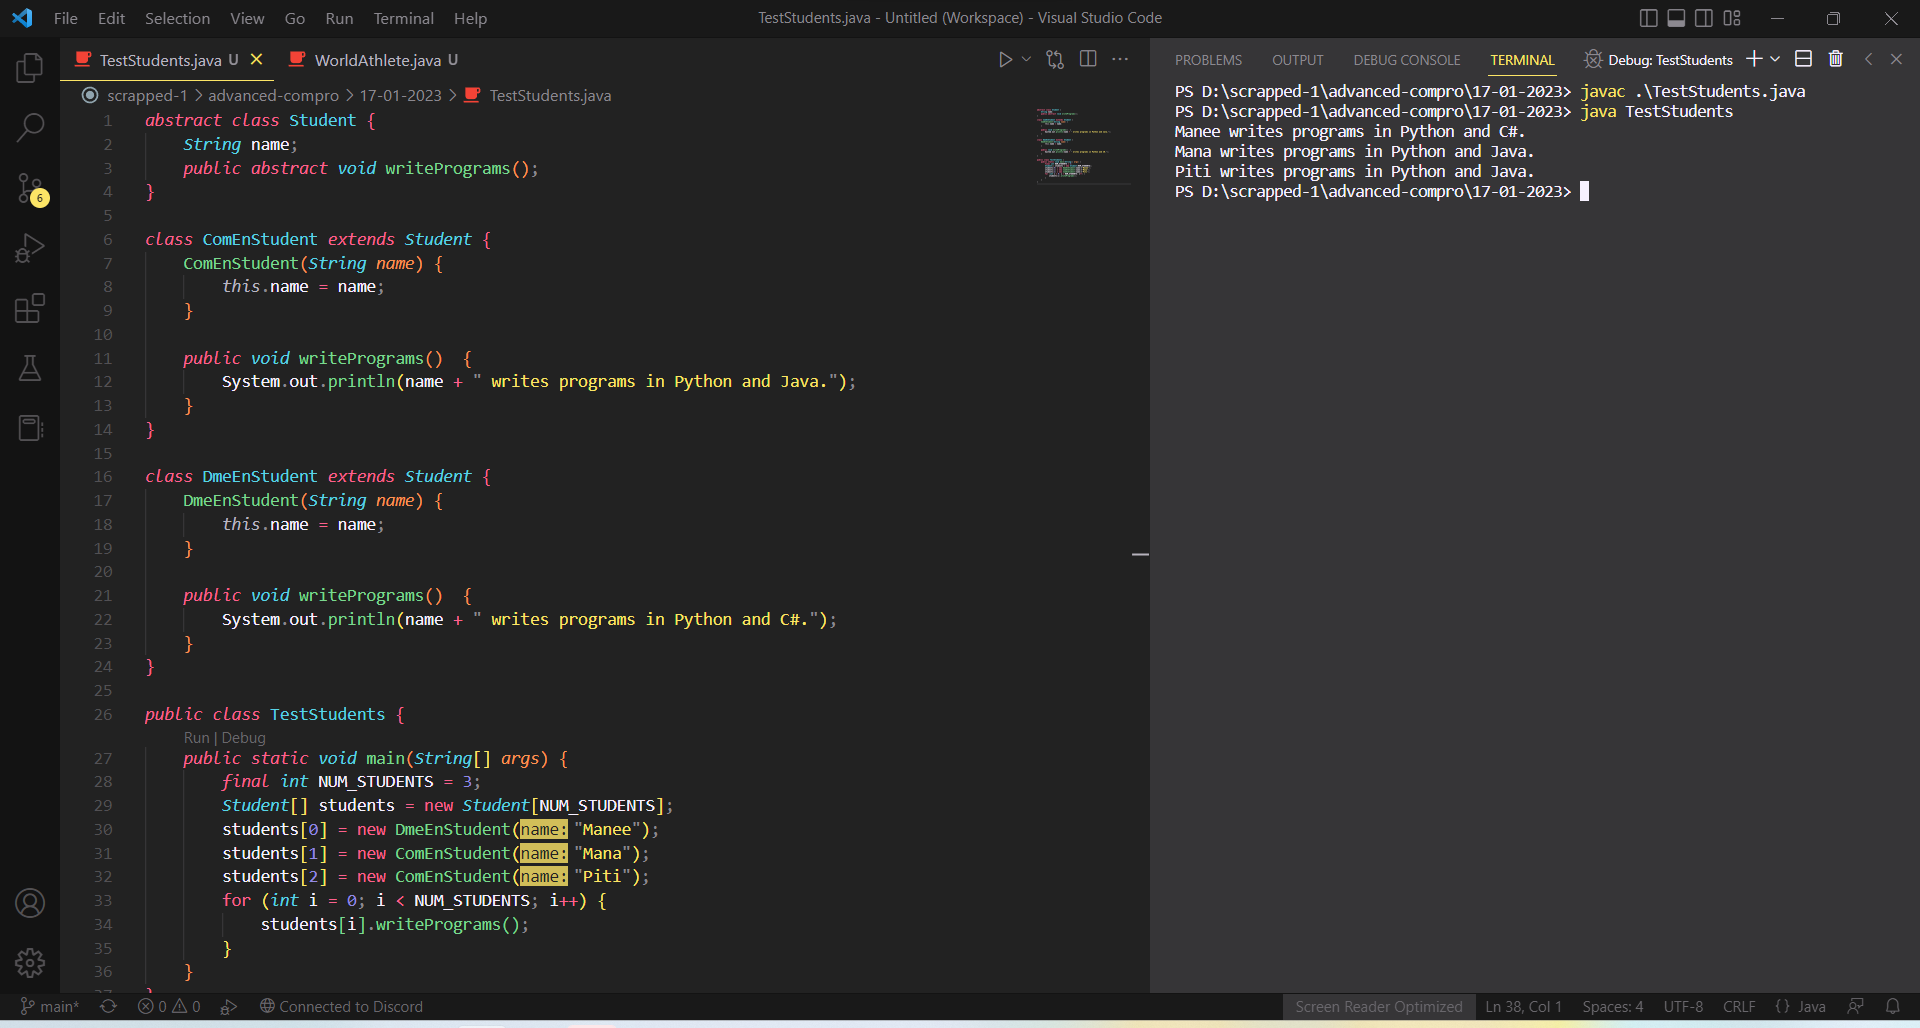
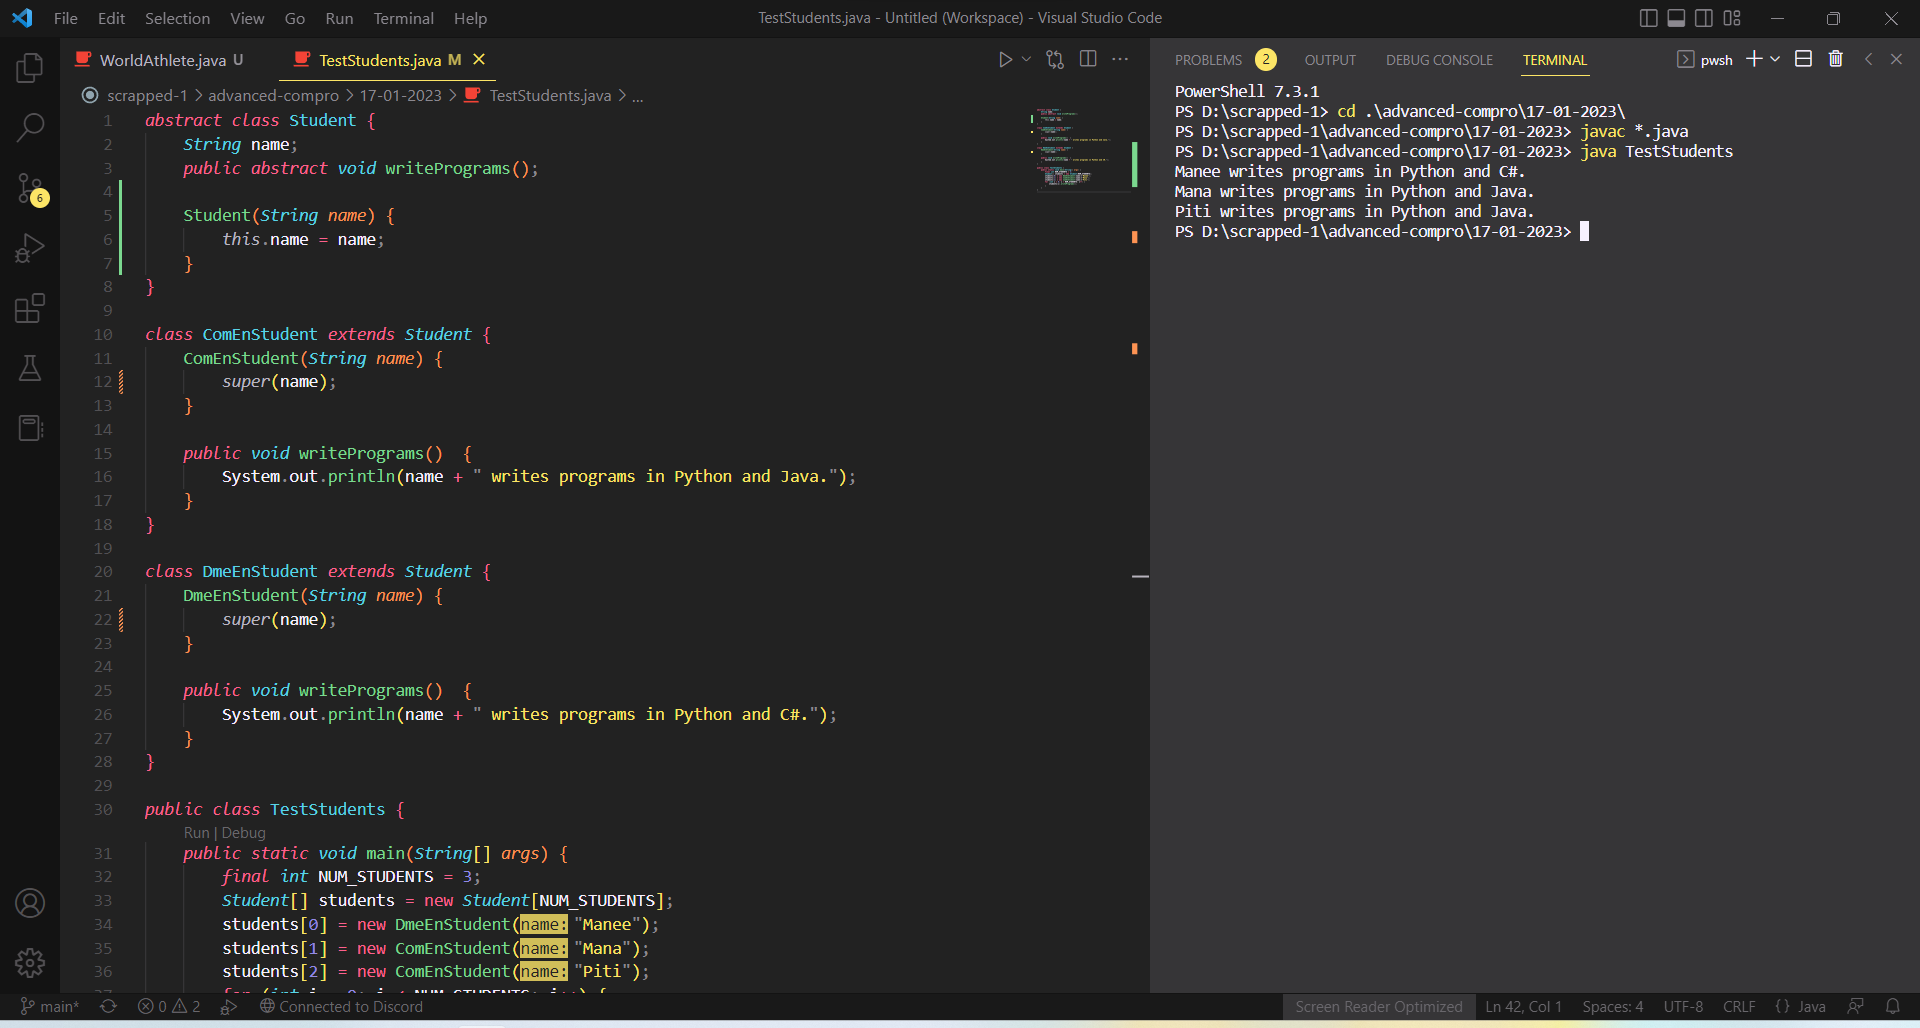
Edit exercise (17-01-2023)

diff --git a/advanced-compro/17-01-2023/TestStudents.java b/advanced-compro/17-01-2023/TestStudents.java
@@ -1,11 +1,15 @@
 abstract class Student {
     String name;
     public abstract void writePrograms();
+
+    Student(String name) {
+        this.name = name;
+    }
 }
 
 class ComEnStudent extends Student {
     ComEnStudent(String name) {
-        this.name = name;
+        super(name);
     }
 
     public void writePrograms()  {
@@ -15,7 +19,7 @@ class ComEnStudent extends Student {
 
 class DmeEnStudent extends Student {
     DmeEnStudent(String name) {
-        this.name = name;
+        super(name);
     }
 
     public void writePrograms()  {
